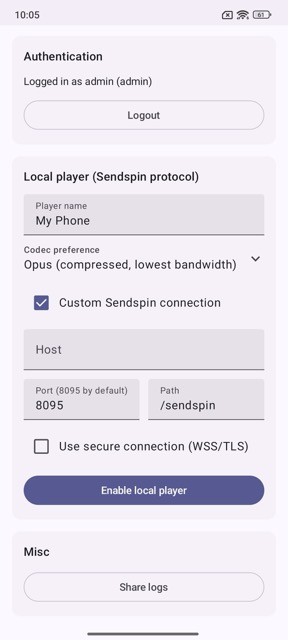
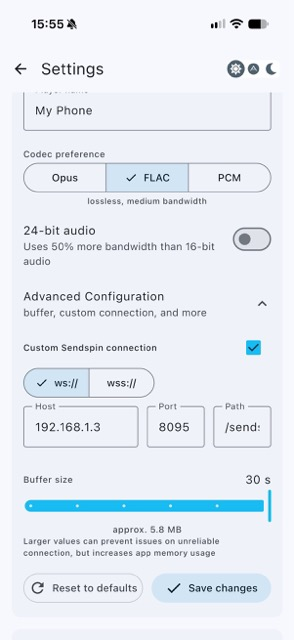
Update Sendspin player settings documentation (including screenshots)

diff --git a/docs/app-documentation/local-sendspin-player-settings.md b/docs/app-documentation/local-sendspin-player-settings.md
@@ -10,19 +10,22 @@ You can change these settings when the player is on or off:
 
 - **Player name** — The name that shows in Music Assistant (default: My Phone).
 - **Codec preference** — The audio codec for the stream. See [Codec Preference](#codec-preference) below.
+- **24-bit audio** — Streams 24-bit instead of 16-bit audio. This uses about 50% more bandwidth. Only available with FLAC or PCM; the switch is disabled when Opus is selected. See [24-bit Audio](#24-bit-audio).
 - **Advanced configuration** — Tap this row to show or hide the settings that follow:
   - **Custom Sendspin connection** — Keep this setting off if your setup does not need a custom connection. See [Custom Sendspin Connection](#custom-sendspin-connection).
-  - **Buffer size** — The maximum buffer size for the current stream. The buffer helps the player continue through short network interruptions. It is not for offline playback, and it does not load the next queue items in advance. A larger buffer uses more app memory.
+  - **Buffer size** — The maximum buffer size for the current stream, set with a slider (default: 10 s). The buffer helps the player continue through short network interruptions. It is not for offline playback, and it does not load the next queue items in advance. Larger values can prevent issues on an unreliable connection, but a larger buffer uses more app memory. The slider shows the approximate memory the buffer needs for the selected length, codec and bit depth (for example, about 1.9 MB at 10 s with FLAC, or about 0.5 MB at 30 s with Opus).
 
 The advanced configuration opens automatically if one of its settings is not at the default value.
 
 ## Saving Changes
 
-Tap **Save changes** to apply your changes. Tap **Reset to defaults** to apply the default values. If the player plays audio, the app asks you to confirm first, because the change stops playback.
+Tap **Save changes** to apply your changes. Tap **Reset to defaults** to apply the default values. Both buttons are only active when there is something to save or reset.
+
+If the player is playing audio, the app shows an **Interrupting Playback** dialog first. Saving changes to the player interrupts the current playback and clears the current queue, so tap **Continue** to proceed or **Cancel** to keep playing.
 
 ![Local Player Disabled - Setup](screenshots/local-sendspin-player-settings/local-player-disabled.jpeg)
-![Local Player Codec Preference](screenshots/local-sendspin-player-settings/local-player-codec.jpeg)
-![Local Player Enabled](screenshots/local-sendspin-player-settings/player-enabled.jpeg)
+![Local Player Advanced Configuration](screenshots/local-sendspin-player-settings/local-player-advanced-configuration.jpeg)
+![Interrupting Playback Confirmation](screenshots/local-sendspin-player-settings/interrupting-playback.jpeg)
 
 > **Good to know:** The app's built-in Local Player is designed to be a private player for a personal music experience. It plays music on your device, for you, while you're using it. This is different from the other players Music Assistant supports (like speakers), which stay on and available all the time. The Local Player isn't meant to work that way, so you can't find or control it from other apps or devices.
 
@@ -32,30 +35,36 @@ Tap **Save changes** to apply your changes. Tap **Reset to defaults** to apply t
 
 ## Codec Preference
 
-The codec controls how audio is compressed and streamed from your Music Assistant server to the app. Choose based on your network conditions and how much audio quality matters to you.
+The codec controls how audio is compressed and streamed from your Music Assistant server to the app. Choose based on your network conditions and how much audio quality matters to you. The selected option shows a short description underneath (for example, "lossless, medium bandwidth").
 
-- **Opus** *(Compressed, lowest bandwidth)* — A lossy format that uses the least data. Audio quality is good but not lossless. Best for mobile data connections, slower Wi-Fi, or when bandwidth is a concern.
+- **Opus** *(Compressed, lowest bandwidth)* — A lossy format that uses the least data. Audio quality is good but not lossless. Best for mobile data connections, slower Wi-Fi, or when bandwidth is a concern. 24-bit audio is not available with Opus.
 
 - **FLAC** *(Lossless, medium bandwidth)* — Streams audio in full quality without any loss, using a moderate amount of bandwidth. Recommended over PCM for most setups — identical quality to PCM, with less network load.
 
 - **PCM** *(Lossless, high bandwidth)* — Streams uncompressed, lossless audio but uses considerably more bandwidth than FLAC for identical quality. Only use this if your device or firmware has trouble playing FLAC files.
 
+## 24-bit Audio
+
+Turn on **24-bit audio** to stream at 24-bit instead of 16-bit depth. This uses about 50% more bandwidth than 16-bit audio, and it also increases the memory needed for the buffer.
+
+This option is only available with the **FLAC** and **PCM** codecs. When **Opus** is selected, the switch is disabled and shows "Available with FLAC or PCM".
+
 ## Custom Sendspin Connection
 
-If the app cannot reach your Music Assistant server with the default connection, open **Advanced configuration** and turn on **Custom Sendspin connection**. Then set the connection manually.
+If the app cannot reach your Music Assistant server with the default connection, open **Advanced configuration** and turn on **Custom Sendspin connection**. Then set the connection manually. While the setting is off, the fields are disabled and the app uses the default connection.
 
 | Field | Description |
 |---|---|
+| **ws:// or wss://** | Select **wss://** if your server uses a secure WebSocket connection (TLS) |
 | **Host** | The hostname or IP address of your Music Assistant server. If empty, the app uses the server host. |
 | **Port** | Port number (default: `8095`). If empty, the app uses the default. |
 | **Path** | Sendspin endpoint path (default: `/sendspin`) |
-| **ws:// or wss://** | Select **wss://** if your server uses a secure WebSocket connection (TLS) |
 
 ![Custom Sendspin Connection](screenshots/local-sendspin-player-settings/custom-sendspin-connection.jpeg)
 
 ## Car (Android Auto / CarPlay)
 
-Once the Local Sendspin Player is enabled, the **Car Settings** section becomes available. Here you can configure how the app behaves when used in Android Auto or Apple CarPlay:
+Once the Local Sendspin Player is enabled, the **Car (Android Auto / CarPlay)** section becomes available below the player settings. Here you can configure how the app behaves when used in Android Auto or Apple CarPlay:
 
 - **Tabs** — Customize which tabs are shown and in what order they appear.
 - **Item actions** — Set the default action performed when tapping different item types.
